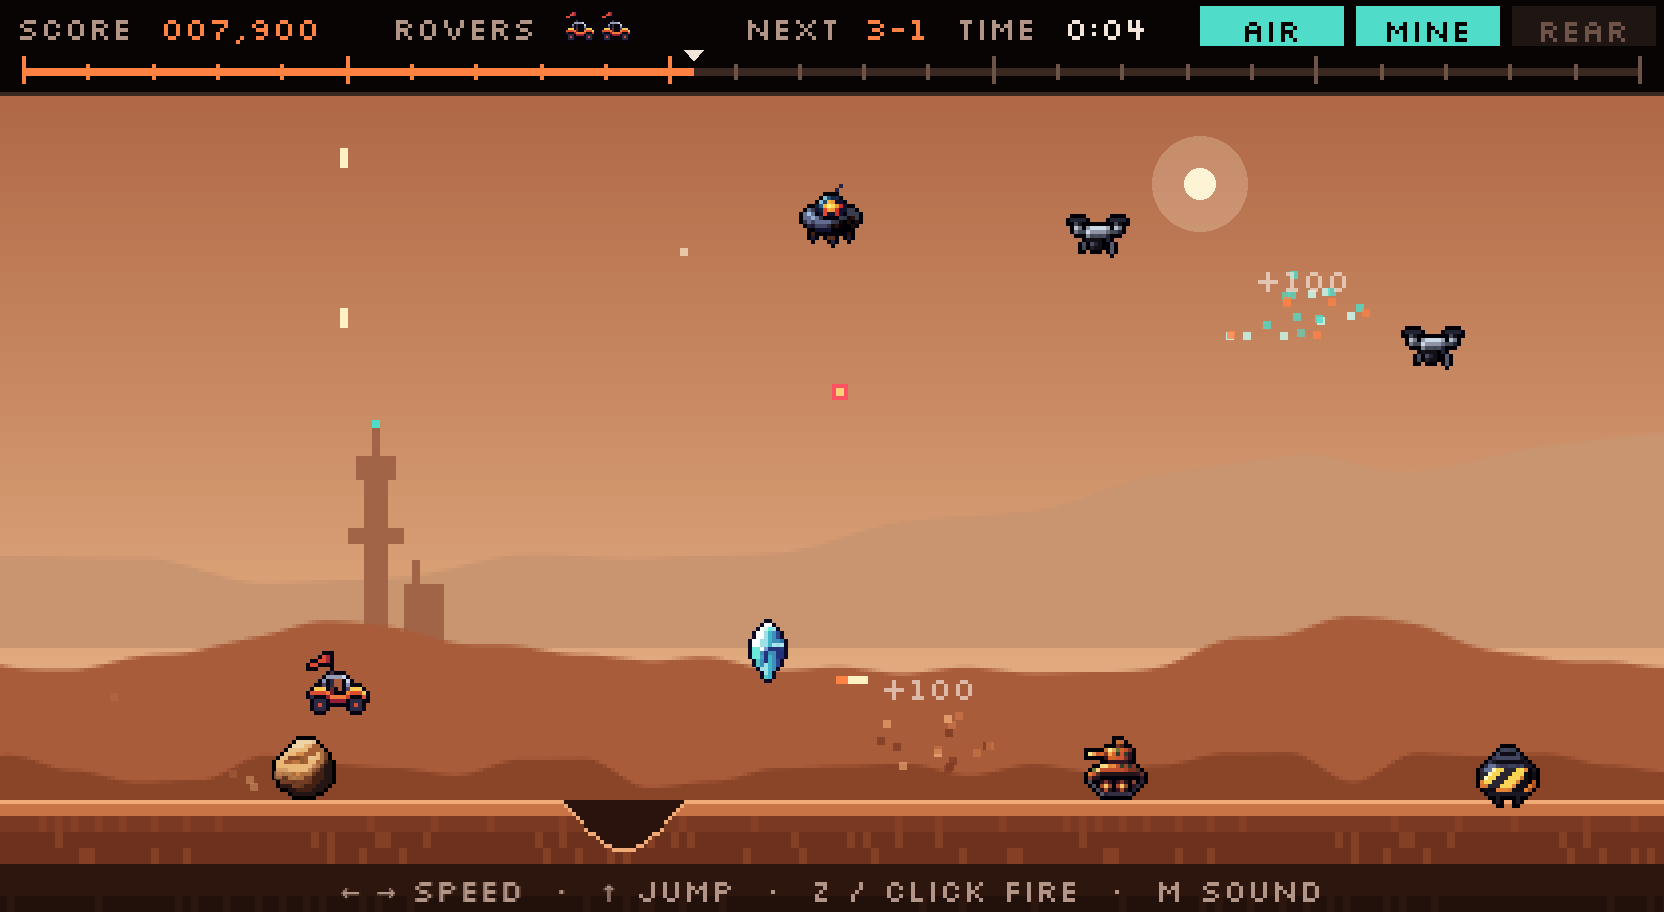
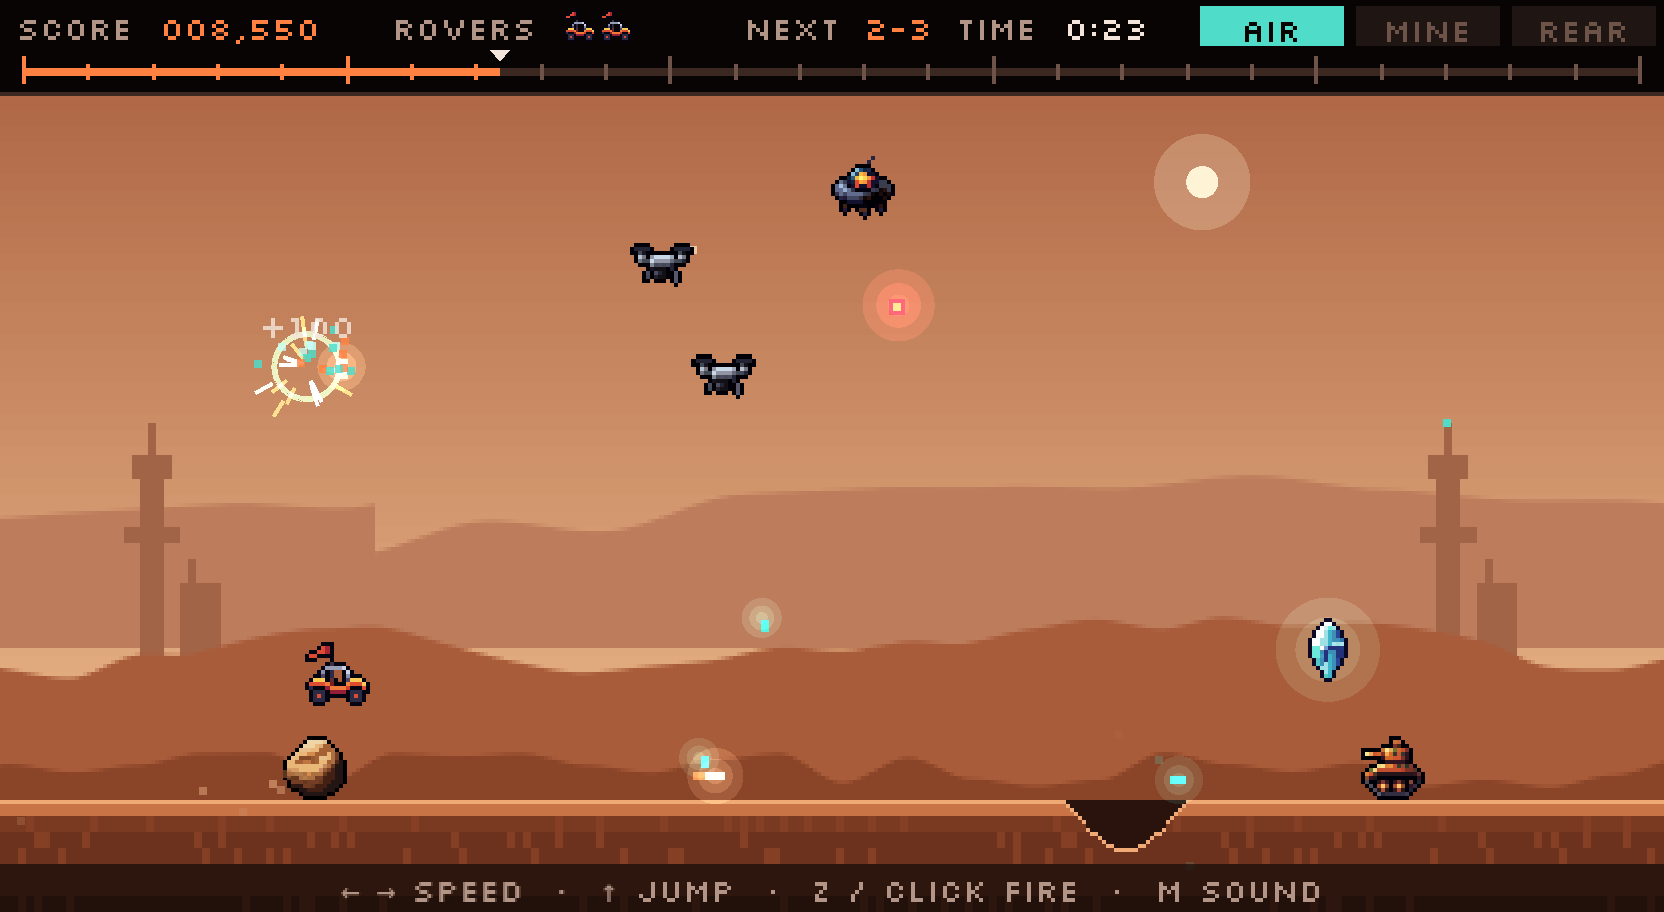
Balance pass: drones hover over the rover, mine pairs spaced; v1 docs
Survey drones now hover around screen x 150/120/90 (was 300/237/174), so
their pellets reach the rover and its upward shots reach them. Mine pairs
are 56 apart (was 20): clearable at brake, and at cruise any jump that
clears the first leaves room for the second. Every sector and lap checked
clearable at brake, cruise and boost. README screenshot retaken with the
effects; README and build plan updated for v1 complete.

diff --git a/src/scenes/PatrolScene.ts b/src/scenes/PatrolScene.ts
@@ -30,7 +30,7 @@ type AirThing = {
   kind: 'scout' | 'bomber' | 'diver';
   x: number; y: number; t: number;
   img: Phaser.GameObjects.Image;
-  hx?: number; hy?: number; phase?: number; cool?: number; left?: number; vy?: number;
+  hx?: number; hy?: number; hoverX?: number; phase?: number; cool?: number; left?: number; vy?: number;
   dead?: boolean;
 };
 type Crater = { x: number; w: number; fresh: number };
@@ -198,7 +198,7 @@ export class PatrolScene extends Phaser.Scene {
   private spawnAir(kind: AirKind) {
     if (kind === 'scouts') {
       for (let i = 0; i < 3; i++) {
-        this.air.push({ kind: 'scout', x: 440 + i * 26, y: 80, t: 0, hx: 440 + i * 26, hy: 70 + i * 16, phase: i * 2.1, cool: 1 + i * 0.6, img: this.sprite('scout', -50, 0) });
+        this.air.push({ kind: 'scout', x: 440 + i * 26, y: 80, t: 0, hx: 440 + i * 26, hy: 70 + i * 16, hoverX: ENEMY.scout.hoverX[i], phase: i * 2.1, cool: 1 + i * 0.6, img: this.sprite('scout', -50, 0) });
       }
     } else if (kind === 'bomber') {
       this.air.push({ kind: 'bomber', x: 440, y: ENEMY.bomber.y, t: 0, cool: 1.4, left: ENEMY.bomber.charges, img: this.sprite('bomber', -50, 0) });
@@ -360,7 +360,7 @@ export class PatrolScene extends Phaser.Scene {
     for (const a of this.air) {
       a.t += dt;
       if (a.kind === 'scout') {
-        const goal = a.t < ENEMY.scout.life ? 300 - a.phase! * 30 : -120;
+        const goal = a.t < ENEMY.scout.life ? a.hoverX! : -120;
         a.hx! += (goal - a.hx!) * Math.min(1, dt * 0.8 * dusk);
         a.x = a.hx! + Math.sin(a.t * 1.3 * dusk + a.phase!) * ENEMY.scout.weave;
         a.y = a.hy! + Math.sin(a.t * 2.2 + a.phase!) * 12;

diff --git a/src/course.ts b/src/course.ts
@@ -43,7 +43,7 @@ function weighted<T extends string>(weights: Partial<Record<T, number>>, r: numb
 }
 
 /** How much road a hazard takes up, so the next one isn't placed on top of it. */
-const LENGTH: Record<GroundKind, number> = { crater: 34, boulder: 16, bigBoulder: 16, mine: 16, mineField: 36, harvester: 16, dozer: 0, ice: 0 };
+const LENGTH: Record<GroundKind, number> = { crater: 34, boulder: 16, bigBoulder: 16, mine: 16, mineField: COURSE.mineFieldGap + 16, harvester: 16, dozer: 0, ice: 0 };
 
 /**
  * Lays out one sector: five stretches of road, each ending at a beacon. Each stretch starts and ends with clear road,
@@ -62,7 +62,7 @@ export function generateSector(index: number, lap: number, startX: number): Sect
     while (x < segEnd - 140) {
       const kind = weighted(sector.ground, rand());
       if (kind === 'crater') items.push({ kind, x, w: 20 + Math.floor(rand() * 15) });
-      else if (kind === 'mineField') items.push({ kind: 'mine', x }, { kind: 'mine', x: x + 20 });
+      else if (kind === 'mineField') items.push({ kind: 'mine', x }, { kind: 'mine', x: x + COURSE.mineFieldGap });
       else items.push({ kind, x });
       const [lo, hi] = COURSE.gap;
       x += LENGTH[kind] + (lo + rand() * (hi - lo)) * scale;

diff --git a/src/config.ts b/src/config.ts
@@ -61,7 +61,8 @@ export const POINTS = {
 export const SCORING = { sectorBonus: 1000, perSecondUnderPar: 100, routeBonus: 5000, extraRoversAt: [10000, 30000, 60000] };
 
 export const ENEMY = {
-  scout: { weave: 46, dropEvery: [1.6, 2.6] as const, life: 7 },
+  /** Each of the three hovers around its own screen x, weaving across the rover so its pellets and your shots can meet. */
+  scout: { hoverX: [150, 120, 90] as const, weave: 46, dropEvery: [1.6, 2.6] as const, life: 7 },
   bomber: { y: 52, ahead: 110, charges: 3, dropEvery: 1.9 },
   /** Glides in to hover over the rover, hangs (flashing), then plunges with this acceleration. */
   diver: { hoverY: 44, glide: 1.6, hang: 0.7, plunge: 420 },
@@ -101,6 +102,8 @@ export const COURSE = {
   /** Gap between hazards: [min, max] on the Day shift; Dusk laps shrink it. */
   gap: [120, 175] as const,
   duskGapScale: 0.82,
+  /** A mine pair's spacing. At cruise or brake, any jump that clears the first mine leaves room to clear the second. */
+  mineFieldGap: 56,
   /** Par is the time to drive a sector at this speed. */
   parSpeed: 88,
 };

diff --git a/design/BUILD-PLAN.md b/design/BUILD-PLAN.md
@@ -34,17 +34,32 @@ Vite 8 + Phaser 4 + TypeScript, copied from Space Raider (`package.json`, `tscon
 
 The game camera doesn't scroll. The scene keeps `camX` (distance driven) and places world things at `x - camX`, which keeps the HUD, air enemies (screen space) and parallax simple.
 
-## Status (2026-11-12)
+## Status (2026-11-13)
 
-- **Done and deployed:** milestones 1–4, plus from 5: lamps, route strip, banners, sound, debris sparks, shake in game pixels, dust; from 6: four touch buttons, side-bar layout, portrait overlay, tappable SOUND / CONTINUE / TITLE. Pushed to `leeeeeroyj/mars-patrol`; the Pages deploy succeeded.
-- **Done (7, publishing):** README with a staged hero screenshot (`docs/screenshot.png`), MIT licence, sprite dataset credit. Repo settings per playbook C5 applied and verified.
-- **Verified:** headless CDP suite, 16/16 checks: crater crash and jump, boulder kill, shell cancelling, dozer jump and kill, REAR lamp, satellite shot down, saucer craters, sector bonus maths, route bonus and Dusk lap, game over and continue, no exceptions. A touch run on an emulated 844×390 phone covered boost, fire and jump.
-- **Design change:** the relay satellite now glides in, hangs over the rover (flashing), then plunges. An arc aimed at the rover could only be shot once it was already on top of it.
-- **Milestone 5 done, not yet committed:** `src/effects.ts` (tunables in `FX` in `config.ts`). Additive spark bursts with shockwave rings (two for big kills), sized small / big / huge per the juice table; sparks spray back from a big boulder's first hit; pops for cancelled shots, ice cores and beacons; the rover's death adds a white flash and a camera roll; a ring closes in on the rover at respawn and continue. Soft additive glows under shots, shells, falling drops, ice cores, beacon lights and fresh craters. No full-screen bloom.
-  - **Verified** in headless Chrome (CDP): screenshots mid-burst for each effect; 40 fps with a burst every 150 ms, the same as idle, at real-time game speed; roll and shake settle to zero; game over and continue still work; no exceptions.
-  - **Design change:** the camera zooms in slightly while it rolls or shakes. Without that, the death roll showed black wedges past the road's ends at the screen corners.
-- **Decided in code:** each Dusk lap is laid out from a new seed (the seed includes the lap), and a retry within a lap repeats its layout.
-- **Next:** a real phone test (6), including the effects' frame rate; a balance pass (7); retake the README screenshot with the new effects. Check that GitHub detects the licence as MIT after the next push. Confirm two-factor login on the account.
+**v1 is complete.** All seven milestones are done, and the game is deployed to GitHub Pages from `leeeeeroyj/mars-patrol`.
+
+- **Milestones 1–4:** the playable core, the full roster, and the course structure (sectors, beacons, par, Dusk laps, continue).
+- **Milestone 5, HUD and feedback:** lamps, route strip, banners, sound, debris, dust. `src/effects.ts` (tunables in `FX` in `config.ts`) adds additive spark bursts with shockwave rings (two rings for big kills), pops for cancelled shots, ice cores and beacons, a white flash and camera roll on death, a ring that closes in at respawn, and soft glows under bright things. There's no full-screen bloom. With a burst every 150 ms, headless Chrome holds 40 fps, the same as idle.
+- **Milestone 6, touch and mobile:** four touch buttons, the side-bar layout, the portrait overlay, and tappable SOUND / CONTINUE / TITLE. Tested with CDP touch emulation (844×390), then on a real phone, where it works.
+- **Milestone 7, polish:** README with a staged hero screenshot (retaken with the effects), MIT licence (GitHub detects it as MIT), sprite dataset credit, repo settings per playbook C5. Balance pass below.
+
+**Balance pass (2026-11-13)**
+- **Survey drones hover over the rover.** Each of the three now hovers around its own screen x (`ENEMY.scout.hoverX`: 150, 120, 90) instead of 300 / 237 / 174, which kept them far ahead. The rover can reach them across brake to boost. Before: in reach about 4% of the time, about 0.14 pellets per wave falling on the rover. After: about 15% and about 0.8.
+- **Mine pairs are spaced 56 apart (`COURSE.mineFieldGap`), up from 20.** The old pair could never be cleared at brake, and at cruise the takeoff window was about 0.07 s. Now, at brake or cruise, any jump that clears the first mine leaves room to clear the second. At boost about half do, so boosting through a pair is a risk.
+- **Every layout checked:** a script ran the real course generator and the scene's collision rules for all 5 sectors across 4 laps, at brake, cruise and boost, with harvesters crawling. With shooting allowed, all 20 layouts can be cleared at all three speeds. Some can only be cleared at brake or cruise by shooting a boulder or harvester, and that's intended. The script doesn't model dozers, shells or air attacks.
+- **Left as they were:** par (5,500 px at 88 px/s, so 63 s; cruise takes 73 s, full boost 50 s), extra rovers at 10k / 30k / 60k, and the Dusk ramp (+25% machine speed per lap, gaps × 0.82). Adjust them once there's play data.
+- **Verified** in headless Chrome (CDP), 7/7 checks: drones come within reach, all three shot down at cruise with real key presses, a mine pair cleared at brake (two jumps) and at cruise (jump held), game over and continue, no exceptions.
+
+**Earlier design changes**
+- The relay satellite glides in, hangs over the rover flashing, then plunges. An arc aimed at the rover could only be shot once it was already on top of it.
+- The camera zooms in slightly while it rolls or shakes. Without that, the death roll showed black wedges past the road's ends.
+
+**Decided**
+- **Dusk laps:** each lap is laid out from a new seed (the seed includes the lap), and a retry within a lap repeats its layout. You chose to keep this.
+- **The name:** keep "Mars Patrol". It's a non-commercial hobby game with no plans to monetize.
+- **Account security:** the GitHub account signs in with a passkey.
+
+**Next (post-v1, pick any):** a high-score table, rolling boulders, dust storms that cut visibility, a boss at Olympus, music. Bring the balance numbers above back in when real play shows a problem.
 
 ## Milestones
 
@@ -70,5 +85,4 @@ Headless Chrome via CDP, driving real key, mouse and touch events. Dev builds ex
 
 ## Open questions
 
-- **The name.** "Mars Patrol" is already the title of a rover game (MobyGames), and it's one word from *Moon Patrol*. You chose to keep it for a non-commercial project; revisit before any public promotion.
-- Dusk laps currently get a new layout each lap (see Status). Switch to the same layout every lap (learnable, like the original) if you prefer.
+None for v1. The name and the Dusk lap layout are settled (see Status).

diff --git a/README.md b/README.md
@@ -14,7 +14,7 @@ A side-scrolling rover patrol across five sectors of Mars. It runs in the browse
 ![Vite](https://img.shields.io/badge/Vite-8-646cff?logo=vite&logoColor=white)
 [![License: MIT](https://img.shields.io/badge/License-MIT-yellow.svg)](LICENSE)
 
-![Mars Patrol gameplay: the rover jumps a boulder and fires both guns while a grader saucer and survey drones close in over the red hills](docs/screenshot.png)
+![Mars Patrol gameplay: the rover jumps a boulder and shoots down a survey drone in a burst of sparks, while a grader saucer and more drones close in over the red hills](docs/screenshot.png)
 
 </div>
 
@@ -24,8 +24,8 @@ Mars Patrol is an original arcade game inspired by the mechanics of Irem's arcad
 
 - **Five sectors, 25 beacons.** New hazards join as you go, and the hills and the volcano on the skyline change as you go. Finish the route and it starts over on the Dusk shift, faster and more crowded.
 - **Two guns at once.** Every shot fires forward along the road and straight up into the sky, so you're always watching both.
-- **A road you can learn.** Each sector is laid out from a fixed seed, so a retry gives you the same road.
-- **Sound with no audio files.** Every sound effect is generated in code, sfxr style, when the game loads.
+- **A road you can learn.** Each sector is laid out from a fixed seed, so a retry gives you the same road. Every Dusk lap lays the route out afresh.
+- **Effects and sound, all in code.** Spark bursts, shockwave rings and screen shake on every kill, and a flash and camera roll when you lose a rover. Every sound effect is generated in code, sfxr style, when the game loads.
 - **Plays anywhere.** Keyboard and mouse, an Xbox-style controller, or touch on a phone held sideways.
 
 ## How to play
@@ -34,7 +34,7 @@ The rover drives itself. Brake or boost to set its speed, jump over what's on th
 
 - **Beacons are checkpoints.** Each sector has five. When you lose a rover, you start again from the last beacon you passed.
 - **Beat par.** Clearing a sector scores 1,000, plus 100 for every second under par. The sector clock turns red once you're over.
-- **Finish the route** for a 5,000 bonus. Then the Dusk shift begins: the same five sectors, with the machines 25% faster each lap and hazards closer together.
+- **Finish the route** for a 5,000 bonus. Then the Dusk shift begins: the five sectors again with a new layout, the machines 25% faster each lap and hazards closer together.
 - **Watch the lamps.** **AIR** lights up when something is coming from above, **MINE** when seed charges are ahead, and **REAR** when a dozer is coming up behind you.
 - **Rovers:** you start with 3 and get an extra one at 10,000, 30,000 and 60,000 points. At game over you can continue from the start of the sector, with a full set of rovers and the score back at zero.
 
@@ -43,14 +43,14 @@ The rover drives itself. Brake or boost to set its speed, jump over what's on th
 | Crater | – | – | Can't be shot. Jump it. |
 | Boulder | 100 | 100 | Jump it or blast it. |
 | Big boulder | 100 | 200 | Takes two hits. |
-| Seed charge | 50 | – | Buried in the road, sometimes in pairs. Can't be shot. Jump it. |
+| Seed charge | 50 | – | Buried in the road, sometimes in pairs with room to land between them. Can't be shot. Jump it. |
 | Harvester | 100 | 300 | Crawls toward you, firing shells along the road. A shell cancels your forward shot. |
 | Dozer | 100 | 200 | Comes up from behind. Jump it as it passes, or shoot it once it's ahead. |
 | Ice core | 250 | – | Floats above the road. Jump to grab it. |
 
 | In the sky | Points | Behaviour |
 | --- | ---: | --- |
-| Survey drone | 100 | Comes in threes, weaving and dropping pellets. |
+| Survey drone | 100 | Comes in threes, weaving back and forth over the rover and dropping pellets. |
 | Grader saucer | 200 | Hovers ahead of you and drops three charges that blast new craters into the road. |
 | Relay satellite | 300 | Glides over the rover, hangs there flashing, then plunges straight down. |
 
